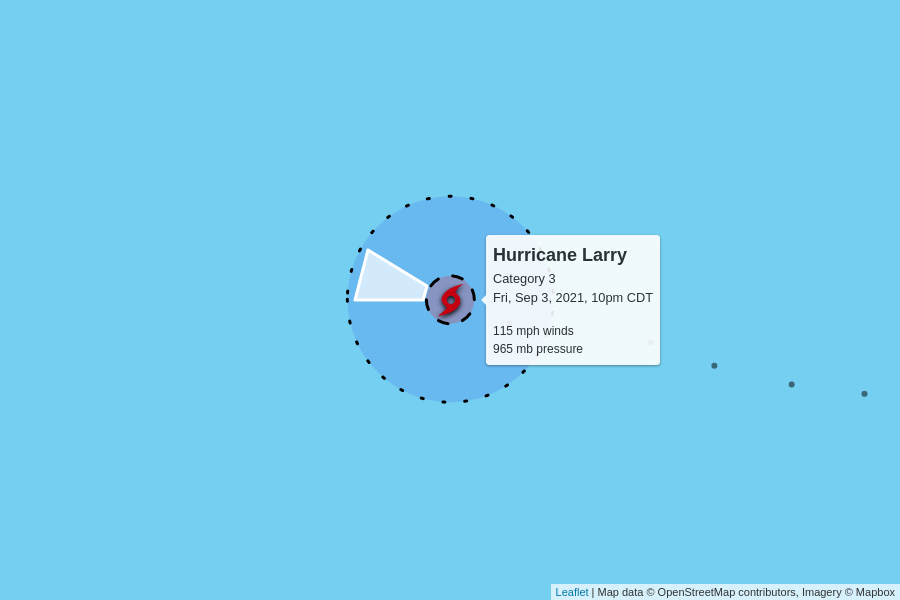
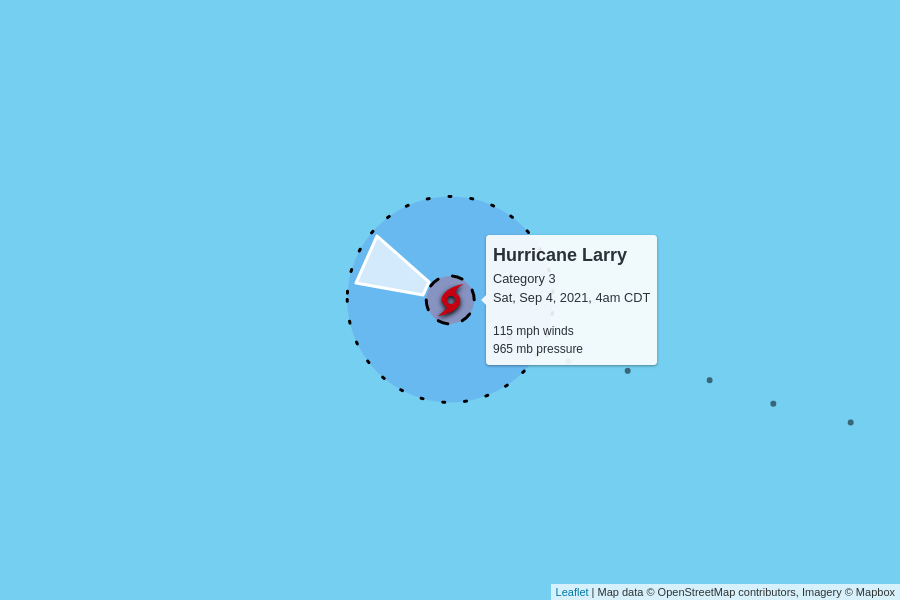
automatic update

Changed region(s): [[0.5289, 0.39, 0.7467, 0.6], [0.3733, 0.39, 0.4978, 0.51]]

diff --git a/docs/index.html b/docs/index.html
@@ -100,7 +100,7 @@
         <td colspan="6" class="storm category-3">
           <h2>
             Hurricane Larry - Category 3
-            <p class="updated">last updated <span data-time>2021-09-04T03:00:00.000Z</span></p>
+            <p class="updated">last updated <span data-time>2021-09-04T09:00:00.000Z</span></p>
           </h2>
         </td>
       </tr>
@@ -120,7 +120,7 @@
         <td>
           16 mph to the west-northwest
           <br/>
-          <span style="display: inline-block; font-size: 1.5em; transform: rotate(285deg);">↑</span>
+          <span style="display: inline-block; font-size: 1.5em; transform: rotate(295deg);">↑</span>
         </td>
         <td><a href="https://raw.githubusercontent.com/mgwalker/atlantic-hurricanes/main/data/csv/AL122021.csv">AL122021.csv</a></td>
         <td><a href="https://www.nhc.noaa.gov/archive/2021/LARRY.shtml?">NHC advisories</a></td>
